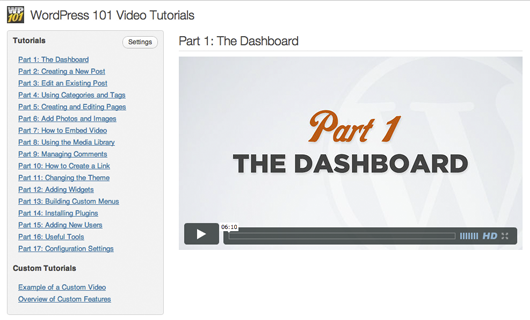
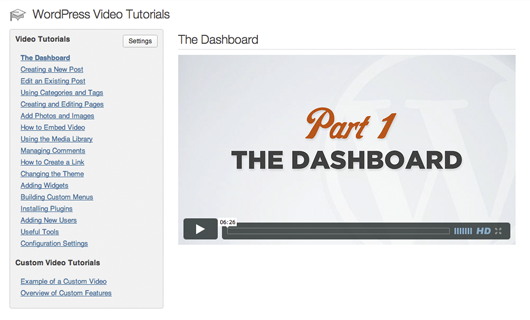
Minor changes to improve the white-labeled experience.
Replaced mentions of "WP101" with "Video Tutorials"

Replaced icons with a more generic icon.

Removed "Part 1," "Part 2," etc. from video titles.

Updated screenshots.

diff --git a/css/wp101.css b/css/wp101.css
@@ -73,7 +73,7 @@ ul.wp101-topic-ul li.wp101-hidden span {
 	}
 
 #icon-wp101 {
-	background: transparent url( '../images/icon-32.png' ) no-repeat;
+	background: transparent url( '../images/wp101-icon-32.png' ) no-repeat;
 	}
 
 .wp101-valid-key {

diff --git a/wp101.php b/wp101.php
@@ -1,8 +1,8 @@
 <?php
 /*
 Plugin Name: WP101
-Description: WordPress tutorial videos, delivered directly to your WordPress admin
-Version: 2.0.3
+Description: WordPress tutorial videos, delivered directly in the WordPress dashboard.
+Version: 2.0.4
 Author: WP101Plugin.com
 Author URI: http://wp101plugin.com/
 */
@@ -39,11 +39,13 @@ class WP101_Plugin {
 			delete_transient( 'wp101_topics' );
 			update_option( 'wp101_db_version', 2 );
 		}
+		
+		delete_transient( 'wp101_topics' );
 	}
 
 	public function admin_menu() {
-		$wp101_icon_url = plugin_dir_url( __FILE__ ) . '/images/icon.png';
-		$hook = add_menu_page( _x( 'WP101', 'page title', 'wp101' ), _x( 'WP101', 'menu title', 'wp101' ), 'read', 'wp101', array( $this, 'render_listing_page' ), $wp101_icon_url );
+		$wp101_icon_url = plugin_dir_url( __FILE__ ) . '/images/wp101-icon.png';
+		$hook = add_menu_page( _x( 'WP101', 'page title', 'wp101' ), _x( 'Video Tutorials', 'menu title', 'wp101' ), 'read', 'wp101', array( $this, 'render_listing_page' ), $wp101_icon_url );
 		add_action( "load-{$hook}", array( $this, 'load' ) );
 	}
 
@@ -216,7 +218,7 @@ class WP101_Plugin {
 				$result = wp_remote_get( self::$api_base . 'action=get_topics&api_key=' . $this->get_key(), array( 'timeout' => 45, 'sslverify' => false, 'user-agent' => 'WP101Plugin' ) );
 				$result = json_decode( $result['body'], true );
 				if ( !$result['error'] && count( $result['data'] ) ) {
-					set_transient( 'wp101_topics', $result['data'], 24*3600 ); // Good for a day.
+					set_transient( 'wp101_topics', $result['data'], 30 ); // Good for a day.
 					return $result['data'];
 				}
 			}
@@ -316,7 +318,7 @@ class WP101_Plugin {
 			</style>
 		<?php endif; ?>
 <div class="wrap" id="wp101-settings">
-	<?php screen_icon('wp101'); ?><h2><?php _ex( 'WordPress 101 Video Tutorials', 'h2 title', 'wp101' ); ?></h2>
+	<?php screen_icon('wp101'); ?><h2><?php _ex( 'WordPress Video Tutorials', 'h2 title', 'wp101' ); ?></h2>
 
 	<?php if ( current_user_can( 'manage_options' ) && isset( $_GET['configure'] ) && $_GET['configure'] ) : ?>
 	<?php if ( !isset( $_GET['document'] ) ) : ?>
@@ -324,7 +326,7 @@ class WP101_Plugin {
 
 		<?php if ( 'valid' !== $this->validate_api_key() ) : ?>
 			<div class="updated">
-			<p><?php _e( 'WP101 requires a WP101Plugin.com API key to provide access to the latest WordPress tutorial videos.', 'wp101' ); ?> <a class="button" href="<?php echo esc_url( self::$subscribe_url ); ?>" title="<?php esc_attr_e( 'WP101 Tutorial Plugin', 'wp101' ); ?>" target="_blank"><?php esc_html_e( 'Subscription Info' ); ?></a></p>
+			<p><?php _e( 'The WP101 Plugin requires a valid API key to provide access to the latest WordPress tutorial videos.', 'wp101' ); ?> <a class="button" href="<?php echo esc_url( self::$subscribe_url ); ?>" title="<?php esc_attr_e( 'WP101 Tutorial Plugin', 'wp101' ); ?>" target="_blank"><?php esc_html_e( 'Subscription Info' ); ?></a></p>
 			</div>
 		<?php else : ?>
 			<p><?php _e( '<strong class="wp101-valid-key">Your WP101Plugin.com API key is valid!</strong>', 'wp101' ); ?>
@@ -348,8 +350,8 @@ class WP101_Plugin {
 		</form>
 
 		<?php if ( 'valid' === $this->validate_api_key() ) : ?>
-		<h3 class="title"><?php _e( 'WP101 Videos' ); ?></h3>
-		<p><?php _e( 'If there are WP101 videos for topics that don&#8217;t apply to this site, you can hide them.' ); ?></p>
+		<h3 class="title"><?php _e( 'WordPress Tutorial Videos' ); ?></h3>
+		<p><?php _e( 'If there are specific videos or topics that don&#8217;t apply to this site, you can hide them.' ); ?></p>
 		<?php echo $this->get_help_topics_html( true ); ?>
 		<?php endif; ?>
 	<?php endif; ?>
@@ -362,7 +364,7 @@ class WP101_Plugin {
 			<h3 class="title"><?php _e( 'Custom Videos' ); ?></h3>
 		<?php endif; ?>
 		<?php if ( !isset( $_GET['document'] ) ) : ?>
-			<p><?php _e( 'If you have your own videos, you can add them here. They will display in a separate section, below the WP101 videos.', 'wp101' ); ?></p>
+			<p><?php _e( 'If you have your own videos, you can add them here. They will display in a separate section, below the WordPress tutorial videos.', 'wp101' ); ?></p>
 			<?php if ( $this->get_custom_help_topics() ) : ?>
 				<?php echo $this->get_custom_help_topics_html( true ); ?>
 			<?php endif; ?>
@@ -400,10 +402,10 @@ class WP101_Plugin {
 <?php $custom_pages = $this->get_custom_help_topics_html(); ?>
 <?php if ( trim( $pages ) ) : ?>
 <div id="wp101-topic-listing">
-<h3><?php _e( 'Tutorials', 'wp101' ); ?><?php if ( current_user_can( 'manage_options' ) ) : ?><span><a class="button" href="<?php echo admin_url( 'admin.php?page=wp101&configure=1' ); ?>"><?php _ex( 'Settings', 'Button with limited space', 'wp101' ); ?></a></span><?php endif; ?></h3>
+<h3><?php _e( 'Video Tutorials', 'wp101' ); ?><?php if ( current_user_can( 'manage_options' ) ) : ?><span><a class="button" href="<?php echo admin_url( 'admin.php?page=wp101&configure=1' ); ?>"><?php _ex( 'Settings', 'Button with limited space', 'wp101' ); ?></a></span><?php endif; ?></h3>
 <?php echo $pages; ?>
 <?php if ( trim( $custom_pages ) ) : ?>
-<h3><?php _e( 'Custom Tutorials', 'wp101' ); ?></h3>
+<h3><?php _e( 'Custom Video Tutorials', 'wp101' ); ?></h3>
 <?php echo $custom_pages; ?>
 <?php endif; ?>
 </div>
